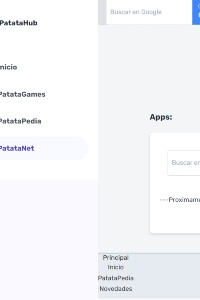
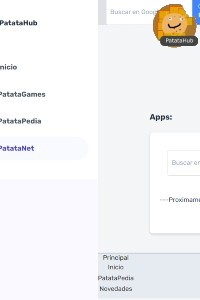
Ahora creo que ya

Changed region(s): [[0.75, 0.0, 0.99, 0.18]]

diff --git a/index.html b/index.html
@@ -218,8 +218,8 @@
     }
     .preview {
       outline: none;
-      height: 450px;
-      width: 300px;
+      height: 300px;
+      width: 200px;
       
     }
     .patatalogo {
@@ -236,64 +236,64 @@
 	<div class="carousel-item">
 		<div class="carousel-box">
       <div class="title"><a class="enlace" href="inicio">Inicio</a></div>
-      <div><img class="patatalogo" src="me.png"></img></div>
-			<img class="preview" src="AppsImg/PatataHub.png" />
+      <div><img class="preview" src="AppsImg/PatataHub.jpg" /></img></div>
+			<img class="patatalogo" src="me.png" />
 		</div>
 	</div>
   <div class="carousel-item">
 		<div class="carousel-box">
       <div class="title"><a class="enlace" href="PatataNet">PatataNet</a></div>
-      <div><img class="patatalogo" src="me.png"></img></div>
-			<img class="preview" src="AppsImg/PatataNet.jpg" />
+      <div><img class="preview" src="AppsImg/PatataNet.jpg" /></div>
+			<img class="patatalogo" src="me.png" />
 		</div>
     </div><div class="carousel-item">
 		<div class="carousel-box">
       <div class="title"><a class="enlace" href="Novedades/">Novedades</a></div>
-      <div><img class="patatalogo" src="me.png"></img></div>
-			<img class="preview" src="AppsImg/Novedades.png" />
+      <div><img class="preview" src="AppsImg/Novedades.jpg" /></div>
+			<img class="patatalogo" src="me.png" />
 		</div>
 	</div>
 	</div><div class="carousel-item">
 		<div class="carousel-box">
       <div class="title"><a class="enlace" href="PatataGames.html">PatataGames</a></div>
-      <div><img class="patatalogo" src="me.png"></img></div>
-			<img class="preview" src="AppsImg/PatataGames.png" />
+      <div><img class="preview" src="AppsImg/PatataGames.jpg" /></div>
+			<img class="patatalogo" src="me.png" />
 		</div>
 	</div><div class="carousel-item">
 		<div class="carousel-box">
-      <div class="title"><a class="enlace" href="PatataGamesPC.html">Juegos Instalables</a></div>
-      <div><img class="patatalogo" src="me.png"></img></div>
-			<img class="preview" src="AppsImg/JuegosInstalables.png" />
+      <div class="title"><a class="enlace" href="inicio">Proximamente</a></div>
+      <div><img class="preview" src="AppsImg/patatalogo.png" /></div>
+			<img class="patatalogo" src="me.png" />
 		</div>
 	</div><div class="carousel-item">
 		<div class="carousel-box">
       <div class="title"><a class="enlace" href="InicioPatataPedia.html">PatataPedia</a></div>
-      <div><img class="patatalogo" src="me.png"></img></div>
-			<img class="preview" src="AppsImg/PatataPedia.png" />
+      <div><img class="preview" src="AppsImg/PatataPedia.jpg" /></div>
+			<img class="patatalogo" src="me.png" />
 		</div>
 	</div><div class="carousel-item">
 		<div class="carousel-box">
       <div class="title"><a class="enlace" href="PatataTexto/">PatataTexto</a></div>
-      <div><img class="patatalogo" src="me.png"></img></div>
-			<img class="preview" src="AppsImg/PatataTexto.png" />
+      <div><img class="preview" src="AppsImg/PatataTexto.jpg" /></div>
+			<img class="patatalogo" src="me.png" />
 		</div>
 	</div><div class="carousel-item">
 		<div class="carousel-box">
       <div class="title"><a class="enlace" href="PatataHack/">PatataHacks</a></div>
-      <div><img class="patatalogo" src="me.png"></img></div>
-			<img class="preview" src="AppsImg/PatataHacks.png" />
+      <div><img class="preview" src="AppsImg/PatataHacks.jpg" /></div>
+			<img class="patatalogo" src="me.png" />
 		</div>
 	</div><div class="carousel-item">
 		<div class="carousel-box">
       <div class="title"><a class="enlace" href="PaintChafita/">Paint Chafa</a></div>
-      <div><img class="patatalogo" src="me.png"></img></div>
-			<img class="preview" src="AppsImg/PaintChafa.png" />
+      <div><img class="preview" src="AppsImg/PaintChafa.jpg" /></div>
+			<img class="patatalogo" src="me.png" />
 		</div>
 	</div><div class="carousel-item">
 		<div class="carousel-box">
       <div class="title"><a class="enlace" href="Paint Chafa 2/">Paint Chafa 2</a></div>
-      <div><img class="patatalogo" src="me.png"></img></div>
-			<img class="preview" src="AppsImg/PaintChafaita.png" />
+      <div><img class="preview" src="AppsImg/PaintChafa2.jpg" /></div>
+			<img class="patatalogo" src="me.png" />
 		</div>
   
 
